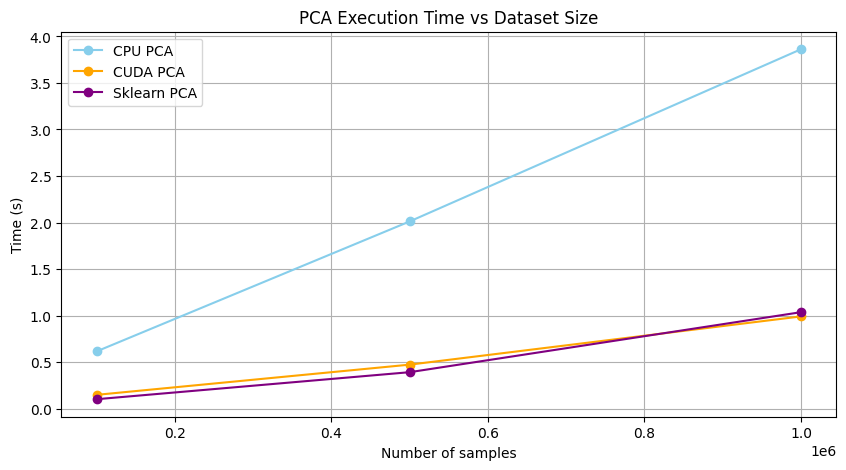
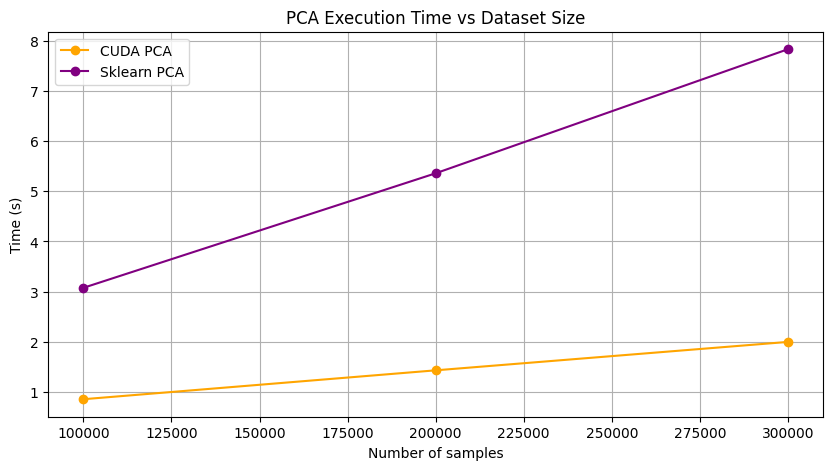
docs: update README with GPU PCA benchmark results

diff --git a/README.md b/README.md
@@ -62,7 +62,7 @@ X_gpu = pca_gpu.fit_transform(X)
 
 ## Benchmark: CPU PCA vs CUDA PCA vs Sklearn PCA
 
-**GPU-accelerated PCA implementation** achieves performance comparable to the widely-used scikit-learn PCA on large datasets. This demonstrates that the library is not only functional but also highly efficient, leveraging GPU acceleration to handle high-dimensional data with speed.
+**GPU-accelerated PCA implementation** is 3.5–4× faster than sklearn's CPU PCA on large datasets.
 
 ![Benchmark](assets/benchmark/benchmark.png)
 
